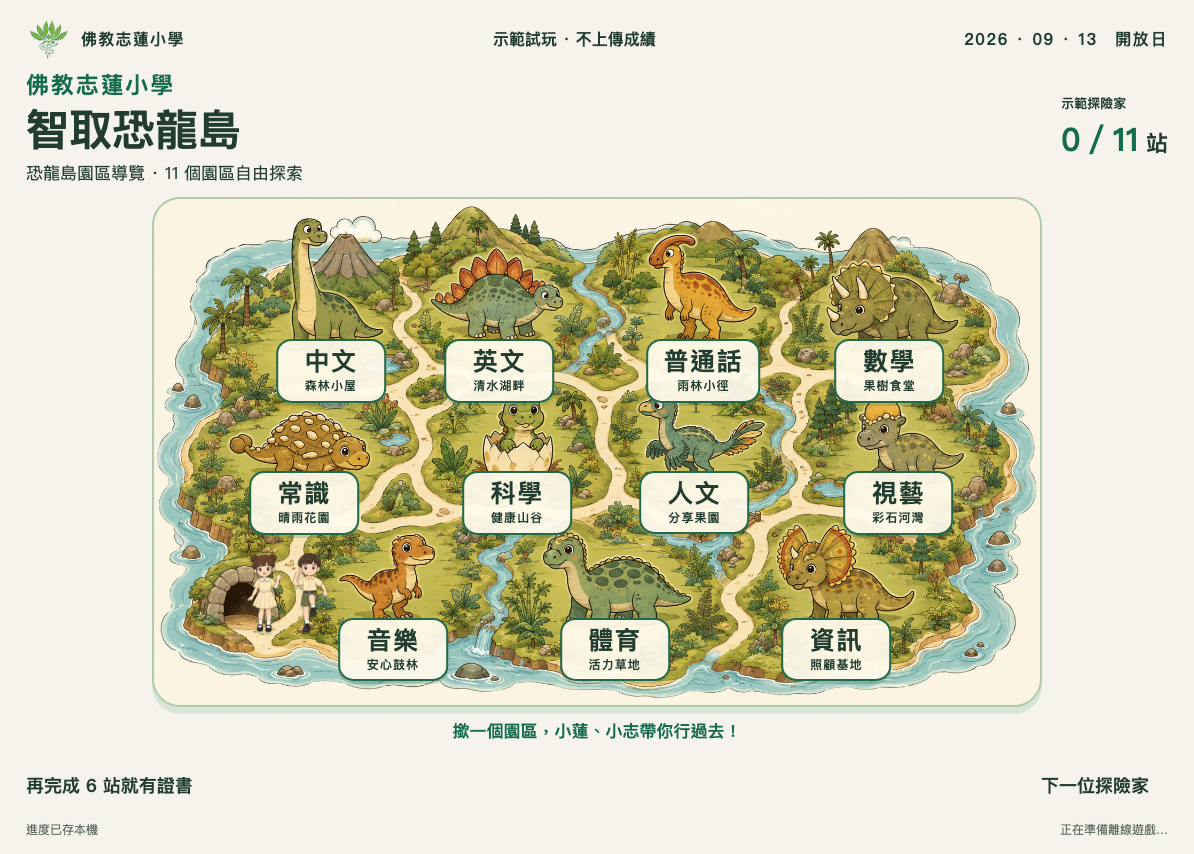
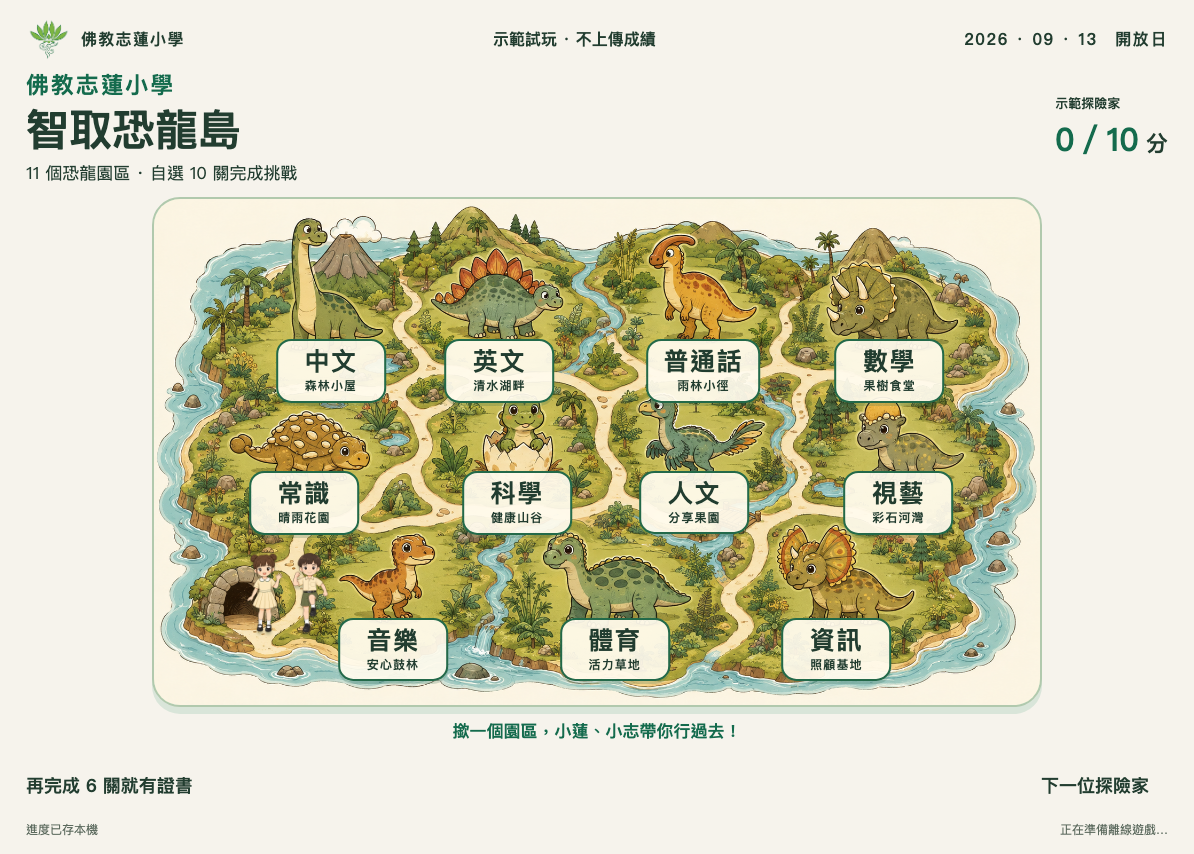
Change scoring to any ten of eleven zones

Changed region(s): [[0.8677, 0.0913, 0.9916, 0.1827], [0.0, 0.1827, 0.2479, 0.2131]]

diff --git a/hub/app.js b/hub/app.js
@@ -1,4 +1,4 @@
-import {SCHOOL,TITLE,DATE,ZONES,zoneById,validName,cleanName,nameLength,newPlayer,totals,snapshot,completeZone,ActiveClock} from '../shared/core.js';
+import {SCHOOL,TITLE,DATE,ZONES,SCORE_TARGET,zoneById,validName,cleanName,nameLength,newPlayer,totals,snapshot,completeZone,ActiveClock,formatTime} from '../shared/core.js';
 import {icon,escapeHTML} from '../shared/icons.js';
 import {read,write,remove,photoStore,DEMO} from '../shared/storage.js';
 import {CONFIG} from '../shared/config.js';
@@ -16,7 +16,7 @@ function synced(){if(!player)return;const snap=snapshot(player);queuePlayer(snap
 function networkLabel(){return !navigator.onLine?'暫時離線，進度存於本機':!networkSettings().appScriptUrl?'進度已存本機':Object.keys(read('outbox',{})).length?'進度已存本機，等待同步':'進度已同步';}
 const brand=()=>`<div class="brand">${CONFIG.schoolLogo?`<img src="${escapeHTML(CONFIG.schoolLogo)}" alt="校徽">`:''}${SCHOOL}</div>`;
 function shell(content){app.innerHTML=`<div class="shell"><header class="topbar">${brand()}${DEMO?'<strong>示範試玩 · 不上傳成績</strong>':''}<span class="date">2026 · 09 · 13　開放日</span></header>${content}<footer class="bottom-note"><span class="subtle" id="sync-state">${networkLabel()}</span><span class="subtle" id="offline-state">${read('offlineReady')?'遊戲已可離線使用':'正在準備離線遊戲…'}</span></footer></div>`;}
-function welcome(){shell(`<section class="welcome"><div class="welcome-copy"><p class="eyebrow">小小探險家 · 大大照顧心</p><h1>智取<br>恐龍島</h1><p class="question">點樣照顧恐龍島上嘅小恐龍，令佢哋安全、開心、學識生活？</p><form class="nickname"><label for="nickname">你叫咩暱稱？</label><div class="input-wrap"><input id="nickname" name="nickname" autocomplete="off" placeholder="例如：小晴" aria-describedby="name-help" required><span id="name-count" class="subtle">0／8</span></div><p class="subtle" id="name-help">最多八個字；暱稱會喺現場探險榜出現。</p><button class="primary" type="submit">出發去島上　→</button><p class="subtle">自由揀站 · 六站領證 · 十一站入榜</p></form></div><div class="welcome-art"><span class="art-label">一齊照顧小龍！</span><img class="character boy" src="img/chars/xiaozhi-welcome.png" alt="小志張手歡迎"><img class="character dino" src="img/chars/dino-baby.png" alt="綠色小龍"></div></section>`);
+function welcome(){shell(`<section class="welcome"><div class="welcome-copy"><p class="eyebrow">小小探險家 · 大大照顧心</p><h1>智取<br>恐龍島</h1><p class="question">點樣照顧恐龍島上嘅小恐龍，令佢哋安全、開心、學識生活？</p><form class="nickname"><label for="nickname">你叫咩暱稱？</label><div class="input-wrap"><input id="nickname" name="nickname" autocomplete="off" placeholder="例如：小晴" aria-describedby="name-help" required><span id="name-count" class="subtle">0／8</span></div><p class="subtle" id="name-help">最多八個字；暱稱會喺現場探險榜出現。</p><button class="primary" type="submit">出發去島上　→</button><p class="subtle">11 關任揀 10 關 · 每關 1 分 · 六分領證</p></form></div><div class="welcome-art"><span class="art-label">一齊照顧小龍！</span><img class="character boy" src="img/chars/xiaozhi-welcome.png" alt="小志張手歡迎"><img class="character dino" src="img/chars/dino-baby.png" alt="綠色小龍"></div></section>`);
  const input=document.querySelector('#nickname');input.addEventListener('input',()=>{let n=nameLength(cleanName(input.value));document.querySelector('#name-count').textContent=n+'／8';input.setCustomValidity(n>8?'暱稱最多八個字。':'');});document.querySelector('form').onsubmit=e=>{e.preventDefault();if(!validName(input.value)){notify('請輸入一至八個字嘅暱稱。');return;}player=newPlayer(input.value);persist();if(saveFailed)return;synced();location.hash='/map';};}
 const parkZones=[
  ['森林小屋',20,19,34],['清水湖畔',39,20,34],['雨林小徑',62,19,34],['果樹食堂',83,23,34],
@@ -24,8 +24,8 @@ const parkZones=[
  ['安心鼓林',27,76,89],['活力草地',52,78,89],['照顧基地',77,77,89]
 ];
 function map(){
- const t=totals(player);
- shell(`<div class="map-header"><div><p class="map-school">${SCHOOL}</p><h2>智取恐龍島</h2><p>恐龍島園區導覽 · 11 個園區自由探索</p></div><div class="progress-label"><span class="map-player">${escapeHTML(player.name)}</span><strong>${t.zonesCompleted}／11</strong> 站</div></div><div class="map-viewport" role="region" aria-label="恐龍島十一個園區地圖"><div class="map-island"><div class="park-guides" aria-label="小蓮同小志帶你遊恐龍島"><img class="character guide-girl" src="img/chars/xiaolian-welcome.png" alt="導遊小蓮"><img class="character guide-boy" src="img/chars/xiaozhi-step.png" alt="導遊小志"></div>${ZONES.map((z,i)=>{const s=player.zones[z.id],park=parkZones[i];return `<button class="stone ${s?.complete?'done':s?'active':''}" data-zone="${z.id}" ${s?.complete?'disabled':''} style="left:${park[1]}%;top:${park[2]}%;--label-top:${50+(park[3]-park[2])*4}%" aria-label="${z.name}，${park[0]}，${s?.complete?'已完成':s?'繼續照顧':'前往園區'}"><span class="park-label"><strong>${z.name}</strong><span>${park[0]}</span></span>${s?.complete?'<span class="park-status">✓ 已照顧</span>':s?'<span class="park-status">進行中</span>':''}</button>`;}).join('')}</div></div><p id="guide-status" class="guide-status" role="status">撳一個園區，小蓮、小志帶你行過去！</p><p class="map-scroll-hint">左右移動地圖，揀你想去嘅園區。</p><div class="bottom-note map-progress"><p class="progress-label">${t.zonesCompleted===11?'11 個園區都照顧好啦！你已完成全島探險。':t.certReady?'你已可領證書！完成全部 11 站就入探險榜。':`再完成 ${6-t.zonesCompleted} 站就有證書`}</p><div class="actions">${t.certReady?'<button class="primary" id="certificate">領證書</button>':''}<button class="quiet" id="next-player">下一位探險家</button></div></div>`);
+ const t=totals(player),finished=t.scoreReady;
+ shell(`<div class="map-header"><div><p class="map-school">${SCHOOL}</p><h2>智取恐龍島</h2><p>11 個恐龍園區 · 自選 10 關完成挑戰</p></div><div class="progress-label"><span class="map-player">${escapeHTML(player.name)}</span><strong>${t.zonesCompleted}／${SCORE_TARGET}</strong> 分</div></div><div class="map-viewport" role="region" aria-label="恐龍島十一個園區地圖"><div class="map-island"><div class="park-guides" aria-label="小蓮同小志帶你遊恐龍島"><img class="character guide-girl" src="img/chars/xiaolian-welcome.png" alt="導遊小蓮"><img class="character guide-boy" src="img/chars/xiaozhi-step.png" alt="導遊小志"></div>${ZONES.map((z,i)=>{const s=player.zones[z.id],park=parkZones[i],locked=finished&&!s?.complete;return `<button class="stone ${s?.complete?'done':locked?'locked':s?'active':''}" data-zone="${z.id}" ${s?.complete||locked?'disabled':''} style="left:${park[1]}%;top:${park[2]}%;--label-top:${50+(park[3]-park[2])*4}%" aria-label="${z.name}，${park[0]}，${s?.complete?'已完成':locked?'今次未選':s?'繼續照顧':'前往園區'}"><span class="park-label"><strong>${z.name}</strong><span>${park[0]}</span></span>${s?.complete?'<span class="park-status">✓ 1 分</span>':locked?'<span class="park-status">今次未選</span>':s?'<span class="park-status">進行中</span>':''}</button>`;}).join('')}</div></div><p id="guide-status" class="guide-status" role="status">${finished?'10 分滿分！你已完成今次探險。':'撳一個園區，小蓮、小志帶你行過去！'}</p><p class="map-scroll-hint">左右移動地圖，揀你想去嘅園區。</p><div class="bottom-note map-progress"><p class="progress-label">${finished?`10 分滿分！總有效時間 ${formatTime(t.totalMs)}，已登上探險榜。`:t.certReady?`你已可領證書！再完成 ${SCORE_TARGET-t.zonesCompleted} 關就滿分。`:`再完成 ${6-t.zonesCompleted} 關就有證書`}</p><div class="actions">${t.certReady?'<button class="primary" id="certificate">領證書</button>':''}<button class="quiet" id="next-player">下一位探險家</button></div></div>`);
  document.querySelector('.shell').classList.add('park-page');
  const guides=mountParkGuides(document.querySelector('.map-island'),player,i=>{persist();location.hash='/play/'+ZONES[i].id;});
  cleanup=()=>guides.cleanup();
@@ -33,7 +33,7 @@ function map(){
  document.querySelector('#certificate')?.addEventListener('click',()=>location.hash='/cert');
  document.querySelector('#next-player').onclick=nextPlayer;
 }
-function game(id){const z=zoneById(id);if(!z){location.hash='/map';return;}if(player.zones[id]?.complete){notify('呢一站已完成，請揀其他園區。');location.hash='/map';return;}player.zones[id]??={ms:0,complete:false,game:{}};const saved=player.zones[id];saved.game??={};persist();activeZone=id;if(!saved.complete&&!document.hidden)clock.resume();shell(`<div class="game-top"><button id="back-map">${icon('back')}返地圖</button><h2>${z.name}</h2><span class="pill">${totals(player).zonesCompleted}／11 站</span></div><p class="parent-line"><span>陪伴小貼士</span>${z.parent}</p><section class="game-panel" id="game"></section><div class="game-footer"><span class="care-tag">照顧小龍 · 安全、開心、學識生活</span><span class="subtle">${saved.complete?'再次探索，不會改變成績':'慢慢試，唔使急。'}</span></div>`);document.querySelector('#back-map').onclick=()=>location.hash='/map';const state=saved.complete?{}:saved.game;cleanup=mountGame(document.querySelector('#game'),z,state,persist,()=>{clock.pause();completeZone(player,id);persist();synced();cleanup();cleanup=()=>{};const n=document.querySelector('#game');n.innerHTML=`<div class="complete"><p class="eyebrow">照顧任務完成</p><h2>小龍${id==='art'?'安全返到屋企':id==='music'?'安心啦':'得到你嘅照顧啦'}！</h2><div class="stage">${z.companion?`<img class="character companion" src="img/chars/${z.id==='pe'?'xiaozhi-highfive':z.companion}.png" alt="陪伴同學">`:''}<img class="character companion is-happy" src="img/chars/${['english','mandarin'].includes(id)?'dino-baby-sleep':'dino-baby'}.png" alt="開心嘅小龍">${id==='math'?'<img class="landmark-greeting" src="img/chars/landmark-triceratops.png" alt="三角龍地標打招呼">':id==='science'?'<img class="landmark-greeting" src="img/chars/landmark-hatch.png" alt="誕生地標">':''}</div><p>${z.outcome}</p><button class="primary" id="return-map">返地圖，繼續探險</button></div>`;document.querySelector('#return-map').onclick=()=>location.hash='/map';});}
+function game(id){const z=zoneById(id),t=totals(player);if(!z){location.hash='/map';return;}if(player.zones[id]?.complete||t.scoreReady){notify(t.scoreReady?'你已經得到 10 分滿分！':'呢一站已完成，請揀其他園區。');location.hash='/map';return;}player.zones[id]??={ms:0,complete:false,game:{}};const saved=player.zones[id];saved.game??={};persist();activeZone=id;if(!saved.complete&&!document.hidden)clock.resume();shell(`<div class="game-top"><button id="back-map">${icon('back')}返地圖</button><h2>${z.name}</h2><span class="pill">${t.zonesCompleted}／${SCORE_TARGET} 分</span></div><p class="parent-line"><span>陪伴小貼士</span>${z.parent}</p><section class="game-panel" id="game"></section><div class="game-footer"><span class="care-tag">照顧小龍 · 安全、開心、學識生活</span><span class="subtle">慢慢試，唔使急。</span></div>`);document.querySelector('#back-map').onclick=()=>location.hash='/map';const state=saved.game;cleanup=mountGame(document.querySelector('#game'),z,state,persist,()=>{clock.pause();completeZone(player,id);persist();synced();cleanup();cleanup=()=>{};const n=document.querySelector('#game');n.innerHTML=`<div class="complete"><p class="eyebrow">照顧任務完成 · 得到 1 分</p><h2>小龍${id==='art'?'安全返到屋企':id==='music'?'安心啦':'得到你嘅照顧啦'}！</h2><div class="stage">${z.companion?`<img class="character companion" src="img/chars/${z.id==='pe'?'xiaozhi-highfive':z.companion}.png" alt="陪伴同學">`:''}<img class="character companion is-happy" src="img/chars/${['english','mandarin'].includes(id)?'dino-baby-sleep':'dino-baby'}.png" alt="開心嘅小龍">${id==='math'?'<img class="landmark-greeting" src="img/chars/landmark-triceratops.png" alt="三角龍地標打招呼">':id==='science'?'<img class="landmark-greeting" src="img/chars/landmark-hatch.png" alt="誕生地標">':''}</div><p>${z.outcome}</p><button class="primary" id="return-map">返地圖，查看分數</button></div>`;document.querySelector('#return-map').onclick=()=>location.hash='/map';});}
 async function nextPlayer(){if(cert?.busy()){notify('證書正在處理，請等完成再換人。');return;}const pending=read('photoPending')===player.id;let dialog=document.createElement('dialog');dialog.innerHTML=`<h2>交畀下一位探險家？</h2><p>${pending?'有相片證書未完成交收。確認換人會放棄本機待傳相片。':'請先確認已保存證書。換人後會清走本機畫面，榜上紀錄仍保留。'}</p><div class="actions"><button id="stay">繼續探索</button><button id="reset" class="primary">${pending?'放棄相片，確認換人':'確認換人'}</button></div>`;document.body.append(dialog);dialog.showModal();dialog.querySelector('#stay').onclick=()=>dialog.close();dialog.addEventListener('close',()=>dialog.remove());dialog.querySelector('#reset').onclick=async()=>{dialog.querySelector('#reset').disabled=true;try{await photoStore('delete',player.id);remove('photoPending');remove('lastCertificate');clock.pause();cleanup();cert?.cleanup();remove('player');player=null;dialog.close();if(location.hash)location.hash='';else render();}catch{notify('本機相片未能清理，請老師幫手，暫時唔換人。');}};}
 function render(){if(cert?.busy()){notify('證書正在處理，請留在證書頁。');history.replaceState(null,'','#/cert');return;}clock.pause();activeZone=null;cleanup();cleanup=()=>{};cert?.cleanup();cert=null;if(!player){if(location.hash)history.replaceState(null,'',location.pathname);welcome();return;}let route=location.hash.slice(1)||'/map';if(route==='/cert'){if(!totals(player).certReady){location.hash='/map';return;}shell(`<div class="game-top"><button id="back-map">${icon('back')}返地圖</button><h2>你嘅照顧證書</h2><button id="next-player" class="quiet">下一位探險家</button></div><section id="certificate"></section>`);document.querySelector('#back-map').onclick=()=>location.hash='/map';document.querySelector('#next-player').onclick=nextPlayer;cert=mountCertificate(document.querySelector('#certificate'),player,notify);}else if(route.startsWith('/play/'))game(route.split('/')[2]);else map();}
 window.addEventListener('hashchange',render);window.addEventListener('online',()=>{flushPlayers();updateNetwork();});window.addEventListener('offline',updateNetwork);window.addEventListener('syncstatus',e=>{let n=document.querySelector('#sync-state');if(n)n.textContent=e.detail;});function updateNetwork(){let n=document.querySelector('#sync-state');if(n)n.textContent=networkLabel();}

diff --git a/hub/certificate.js b/hub/certificate.js
@@ -5,10 +5,10 @@ import {icon,escapeHTML} from '../shared/icons.js';
 const image=src=>new Promise((resolve,reject)=>{let i=new Image();i.onload=()=>resolve(i);i.onerror=()=>reject(Error('證書圖片未能載入，請重試'));i.src=src;});
 function fit(ctx,img,x,y,w,h,cover=false){const s=cover?Math.max(w/img.width,h/img.height):Math.min(w/img.width,h/img.height);ctx.save();ctx.beginPath();ctx.rect(x,y,w,h);ctx.clip();ctx.drawImage(img,x+(w-img.width*s)/2,y+(h-img.height*s)/2,img.width*s,img.height*s);ctx.restore();}
 export async function makeCertificate(player,photo=null){const c=document.createElement('canvas');c.width=1600;c.height=2000;const ctx=c.getContext('2d');ctx.fillStyle='#f6f3ec';ctx.fillRect(0,0,1600,2000);ctx.strokeStyle='#b8923a';ctx.lineWidth=12;ctx.strokeRect(55,55,1490,1890);ctx.lineWidth=3;ctx.strokeRect(80,80,1440,1840);ctx.textAlign='center';ctx.fillStyle='#146b4d';const text=(s,y,size,weight=700)=>{ctx.fillStyle='#146b4d';ctx.font=`${weight} ${size}px "PingFang HK","Microsoft JhengHei",sans-serif`;ctx.fillText(s,800,y,1390);};text(SCHOOL,170,48);text(TITLE,290,100);text('恐龍島照顧任務證書',380,46);if(photo){let p=await image(photo);ctx.fillStyle='#e7eddc';ctx.fillRect(280,440,1040,820);fit(ctx,p,290,450,1020,800,true);}else{ctx.fillStyle='#e7eddc';ctx.beginPath();ctx.ellipse(800,820,510,340,0,0,Math.PI*2);ctx.fill();text('安全 · 開心 · 學識生活',720,52);text('多謝你用心照顧小龍',820,50);}
- const border=await image('img/ui/cert-frame.png');ctx.save();ctx.globalAlpha=.5;ctx.drawImage(border,30,30,1540,1940);ctx.restore();const [girl,boy,dino]=await Promise.all(['xiaolian-highfive','xiaozhi-highfive','dino-baby'].map(n=>image('img/chars/'+n+'.png')));fit(ctx,girl,365,940,470,500);ctx.save();ctx.translate(1600,0);ctx.scale(-1,1);fit(ctx,boy,365,940,470,500);ctx.restore();fit(ctx,dino,660,1200,280,240);text(player.name,1530,82);text('完成恐龍島照顧任務',1625,52);text(`${totals(player).zonesCompleted}／11 站`,1740,84);text(DATE,1850,40);return new Promise((resolve,reject)=>c.toBlob(b=>b?resolve(b):reject(Error('證書未能產生')),'image/jpeg',.88));}
+ const border=await image('img/ui/cert-frame.png');ctx.save();ctx.globalAlpha=.5;ctx.drawImage(border,30,30,1540,1940);ctx.restore();const [girl,boy,dino]=await Promise.all(['xiaolian-highfive','xiaozhi-highfive','dino-baby'].map(n=>image('img/chars/'+n+'.png')));fit(ctx,girl,365,940,470,500);ctx.save();ctx.translate(1600,0);ctx.scale(-1,1);fit(ctx,boy,365,940,470,500);ctx.restore();fit(ctx,dino,660,1200,280,240);text(player.name,1530,82);text('完成恐龍島照顧任務',1625,52);text(`${totals(player).zonesCompleted}／10 分`,1740,84);text(DATE,1850,40);return new Promise((resolve,reject)=>c.toBlob(b=>b?resolve(b):reject(Error('證書未能產生')),'image/jpeg',.88));}
 const dataURL=blob=>new Promise((resolve,reject)=>{let r=new FileReader();r.onload=()=>resolve(r.result);r.onerror=()=>reject(r.error);r.readAsDataURL(blob);});
 export function mountCertificate(root,player,notify){let live=true,stream=null,photo=null,blob=null,previewURL=null,previewVersion=0,busy=false,processing=false,uploading=false,pending=null,timers=[];
- root.innerHTML=`<div class="cert-layout"><div><img class="cert-preview" alt="個人照顧任務證書預覽"><p class="subtle" style="text-align:center;margin-top:10px">完成 ${totals(player).zonesCompleted}／11 站 · ${DATE}</p></div><div class="cert-controls"><h2>留低呢份開心</h2><p>普通證書可以直接儲存。想同小蓮、小志、小龍合照，請家長幫手拍一張。</p><div class="actions"><button class="primary" id="camera-start">${icon('camera','small-icon')} 拍照證書</button><button id="save-local" disabled>儲存普通證書</button></div><div class="notice">拍照由家長自選；確認後上傳合成證書，供持有下載連結者領取。相片唔上探險榜，連結有效 7 日。到期即停止下載，雲端圖片由排程清理。</div><div id="camera-area" class="hidden"><video class="camera-view" autoplay muted playsinline></video><p id="camera-count" role="status"></p><div class="actions"><button id="shutter" class="gold">準備好，影相</button><button id="camera-cancel">取消拍照</button></div></div><div id="photo-actions" class="hidden"><div class="actions"><button id="upload" class="primary">確認並產生下載碼</button><button id="retake">重拍</button><button id="discard">改用普通證書</button></div></div><p id="cert-status" role="status" aria-live="polite">正在製作證書…</p><div id="qr" class="hidden qr-wrap"></div></div></div>`;
+ root.innerHTML=`<div class="cert-layout"><div><img class="cert-preview" alt="個人照顧任務證書預覽"><p class="subtle" style="text-align:center;margin-top:10px">${totals(player).zonesCompleted}／10 分 · ${DATE}</p></div><div class="cert-controls"><h2>留低呢份開心</h2><p>普通證書可以直接儲存。想同小蓮、小志、小龍合照，請家長幫手拍一張。</p><div class="actions"><button class="primary" id="camera-start">${icon('camera','small-icon')} 拍照證書</button><button id="save-local" disabled>儲存普通證書</button></div><div class="notice">拍照由家長自選；確認後上傳合成證書，供持有下載連結者領取。相片唔上探險榜，連結有效 7 日。到期即停止下載，雲端圖片由排程清理。</div><div id="camera-area" class="hidden"><video class="camera-view" autoplay muted playsinline></video><p id="camera-count" role="status"></p><div class="actions"><button id="shutter" class="gold">準備好，影相</button><button id="camera-cancel">取消拍照</button></div></div><div id="photo-actions" class="hidden"><div class="actions"><button id="upload" class="primary">確認並產生下載碼</button><button id="retake">重拍</button><button id="discard">改用普通證書</button></div></div><p id="cert-status" role="status" aria-live="polite">正在製作證書…</p><div id="qr" class="hidden qr-wrap"></div></div></div>`;
  const $=s=>root.querySelector(s),status=s=>{if(live)$('#cert-status').textContent=s;};
  const stop=()=>{busy=false;stream?.getTracks().forEach(t=>t.stop());stream=null;timers.forEach(clearTimeout);timers=[];};
  async function preview(){const version=++previewVersion;try{let next=await makeCertificate(player,photo);if(!live||version!==previewVersion)return;blob=next;if(previewURL)URL.revokeObjectURL(previewURL);previewURL=URL.createObjectURL(blob);$('.cert-preview').src=previewURL;$('#save-local').disabled=false;$('#save-local').textContent=photo?'儲存相片證書':'儲存普通證書';status(photo?'先睇清楚相片，確認先上傳。':'證書準備好，可以儲存。');}catch(e){status(e.message);}}

diff --git a/board/board.js b/board/board.js
@@ -1,8 +1,8 @@
-import {bridge,networkSettings} from '../shared/network.js';import {read,write,DEMO} from '../shared/storage.js';import {ZONES,rank,formatTime,nameLength} from '../shared/core.js';import {icon,escapeHTML} from '../shared/icons.js';import {CONFIG} from '../shared/config.js';
+import {bridge,networkSettings} from '../shared/network.js';import {read,write,DEMO} from '../shared/storage.js';import {ZONES,SCORE_TARGET,rank,formatTime,nameLength} from '../shared/core.js';import {icon,escapeHTML} from '../shared/icons.js';import {CONFIG} from '../shared/config.js';
 let previous=null,busy=false,failures=0;const board=document.querySelector('#board'),status=document.querySelector('#board-status');
 function resize(){const scale=Math.min(innerWidth/1920,innerHeight/1080);board.style.transform=`scale(${scale})`;board.style.marginLeft=Math.max(0,(innerWidth-1920*scale)/2)+'px';board.style.marginTop=Math.max(0,(innerHeight-1080*scale)/2)+'px';}resize();window.addEventListener('resize',resize);
 if(CONFIG.schoolLogo){const img=new Image();img.src=CONFIG.schoolLogo;img.alt='校徽';document.querySelector('header').prepend(img);}
-function render(data){const list=(data.players||[]).filter(p=>p.zonesCompleted===11);document.querySelector('#others').textContent=`${data.exploring||0} 位探險中${data.others>0?` · 另有 ${data.others} 位已完成探險`:''}`;document.querySelector('#rows').innerHTML=list.length?list.map((p,i)=>{const old=previous?.get(p.id),flash=previous&&(!old||!old.certReady&&p.certReady);return `<div class="board-row ${flash?'flash':''}"><span class="rank">${i+1}</span><span class="player-name ${nameLength(p.name)>6?'long':''}">${escapeHTML(p.name)}</span><span class="station-dots" aria-label="已完成${p.zonesCompleted}站">${ZONES.map(z=>`<span class="station-dot ${p.zoneIds.includes(z.id)?'complete':''}" title="${z.name}"></span>`).join('')}</span><span class="station-count">${p.zonesCompleted}<small>／11</small></span><span class="player-time">${formatTime(p.totalMs)}</span><span class="cert-star">${p.certReady?icon('star'):''}</span></div>`;}).join(''):`<div class="board-empty"><img src="../hub/img/chars/dino-baby.png" alt="等待探險家嘅小龍"><h2>等小探險家完成 11 站…</h2><p>一齊照顧小龍，令佢安全、開心、學識生活。</p></div>`;previous=new Map(list.map(p=>[p.id,p]));}
-async function poll(){if(DEMO){renderDemo();return;}if(busy)return;const settings=networkSettings();if(!settings.appScriptUrl){let records=Object.values(read('localBoard',{})),all=rank(records.filter(p=>p.zonesCompleted===11));render({players:all.slice(0,10),others:Math.max(0,all.length-10),exploring:records.length-all.length});status.textContent='本機預覽 · 尚未連接全場探險榜';return;}if(!navigator.onLine){status.textContent='暫時離線，iPad 進度仍在本機';return;}busy=true;try{let data=await bridge.call('getBoard');render(data);write('boardCache',data);failures=0;status.textContent='最近更新 '+new Date(data.serverTime).toLocaleTimeString('zh-HK',{hour12:false,timeZone:'Asia/Hong_Kong'});}catch{failures++;status.textContent=navigator.onLine?'更新暫時未完成，保留上次紀錄':'暫時離線，iPad 進度仍在本機';}finally{busy=false;}}
-function renderDemo(){const names=['小晴','豆豆','樂樂','小蓮花','朗朗','晴天','小恐龍','彤彤','星星','安安','小樹','小葉'];const players=names.map((name,i)=>({id:'demo-'+i,name,zonesCompleted:11,zoneIds:ZONES.map(z=>z.id),totalMs:650000+i*37000,reachedAt:i,certReady:true}));render({players:players.slice(0,10),others:2,exploring:7});status.textContent='示範資料 · 非真實成績 · 全部 11 站完成先入榜';}
+function render(data){const list=(data.players||[]).filter(p=>p.zonesCompleted===SCORE_TARGET);document.querySelector('#others').textContent=`${data.exploring||0} 位探險中${data.others>0?` · 另有 ${data.others} 位取得滿分`:''}`;document.querySelector('#rows').innerHTML=list.length?list.map((p,i)=>{const flash=previous&&!previous.has(p.id);return `<div class="board-row ${flash?'flash':''}"><span class="rank">${i+1}</span><span class="player-name ${nameLength(p.name)>6?'long':''}">${escapeHTML(p.name)}</span><span class="station-dots" aria-label="11 關之中完成 ${p.zonesCompleted} 關">${ZONES.map(z=>`<span class="station-dot ${p.zoneIds.includes(z.id)?'complete':''}" title="${z.name}"></span>`).join('')}</span><span class="station-count">${p.zonesCompleted}<small>／${SCORE_TARGET}分</small></span><span class="player-time">${formatTime(p.totalMs)}</span><span class="cert-star">${icon('star')}</span></div>`;}).join(''):`<div class="board-empty"><img src="../hub/img/chars/dino-baby.png" alt="等待探險家嘅小龍"><h2>等小探險家取得 10 分…</h2><p>11 關任揀 10 關，每過一關得 1 分。</p></div>`;previous=new Map(list.map(p=>[p.id,p]));}
+async function poll(){if(DEMO){renderDemo();return;}if(busy)return;const settings=networkSettings();if(!settings.appScriptUrl){let records=Object.values(read('localBoard',{})),all=rank(records.filter(p=>p.zonesCompleted===SCORE_TARGET));render({players:all.slice(0,10),others:Math.max(0,all.length-10),exploring:records.length-all.length});status.textContent='本機預覽 · 尚未連接全場探險榜';return;}if(!navigator.onLine){status.textContent='暫時離線，iPad 進度仍在本機';return;}busy=true;try{let data=await bridge.call('getBoard');render(data);write('boardCache',data);failures=0;status.textContent='最近更新 '+new Date(data.serverTime).toLocaleTimeString('zh-HK',{hour12:false,timeZone:'Asia/Hong_Kong'});}catch{failures++;status.textContent=navigator.onLine?'更新暫時未完成，保留上次紀錄':'暫時離線，iPad 進度仍在本機';}finally{busy=false;}}
+function renderDemo(){const names=['小晴','豆豆','樂樂','小蓮花','朗朗','晴天','小恐龍','彤彤','星星','安安','小樹','小葉'];const players=names.map((name,i)=>({id:'demo-'+i,name,zonesCompleted:SCORE_TARGET,zoneIds:ZONES.slice(i%2,10+i%2).map(z=>z.id),totalMs:650000+i*37000,reachedAt:i,certReady:true}));render({players:players.slice(0,10),others:2,exploring:7});status.textContent='示範資料 · 非真實成績 · 10 分滿分按總有效時間排名';}
 let cached=DEMO?null:read('boardCache');if(cached)render(cached);else render({players:[],others:0});poll();setInterval(poll,CONFIG.boardPollMs);window.addEventListener('online',poll);window.addEventListener('offline',()=>status.textContent='暫時離線，iPad 進度仍在本機');window.addEventListener('storage',()=>{if(!networkSettings().appScriptUrl)poll();});

diff --git a/shared/core.js b/shared/core.js
@@ -1,4 +1,4 @@
-export const SCHOOL='佛教志蓮小學', TITLE='智取恐龍島', DATE='2026.09.13';
+export const SCHOOL='佛教志蓮小學', TITLE='智取恐龍島', DATE='2026.09.13', SCORE_TARGET=10, CERT_TARGET=6;
 export const ZONES=[
  ['chinese','中文','write','xiaolian-write','用正確筆順寫字，幫小龍起屋同搵水。','有山洞、有清水、有樹蔭，小龍住得更安全！'],
  ['english','英文','ear',null,'聽英文，用行動照顧小龍。','有水飲、食得飽，小龍安心休息！'],
@@ -18,9 +18,9 @@ export function cleanName(s){return String(s).normalize('NFC').trim().replace(/[
 export function validName(s){return !!cleanName(s)&&nameLength(cleanName(s))<=8;}
 export const uid=()=>crypto.randomUUID();
 export function newPlayer(name){if(!validName(name))throw Error('請輸入一至八個字嘅暱稱');return {id:uid(),name:cleanName(name),version:1,zones:{},createdAt:Date.now()};}
-export function totals(p){const ids=ZONES.map(z=>z.id).filter(id=>p?.zones[id]?.complete);return {zoneIds:ids,zonesCompleted:ids.length,totalMs:ids.reduce((s,id)=>s+Math.min(180000,Math.max(0,p.zones[id].ms||0)),0),certReady:ids.length>=6};}
-export function snapshot(p){return {id:p.id,name:p.name,version:p.version,zones:Object.fromEntries(Object.entries(p.zones).filter(([,v])=>v.complete).map(([id,v])=>[id,Math.min(180000,Math.round(v.ms||0))]))};}
-export function completeZone(p,id){if(!zoneById(id))throw Error('未知站點');if(p.zones[id]?.complete)return false;p.zones[id]={...p.zones[id],complete:true,ms:Math.min(180000,p.zones[id]?.ms||0)};p.version++;return true;}
+export function totals(p){const entries=Object.entries(p?.zones||{}).filter(([id,v])=>zoneById(id)&&v?.complete).slice(0,SCORE_TARGET),ids=entries.map(([id])=>id);return {zoneIds:ids,zonesCompleted:ids.length,totalMs:entries.reduce((s,[,v])=>s+Math.min(180000,Math.max(0,v.ms||0)),0),certReady:ids.length>=CERT_TARGET,scoreReady:ids.length===SCORE_TARGET};}
+export function snapshot(p){return {id:p.id,name:p.name,version:p.version,zones:Object.fromEntries(Object.entries(p.zones).filter(([id,v])=>zoneById(id)&&v.complete).slice(0,SCORE_TARGET).map(([id,v])=>[id,Math.min(180000,Math.round(v.ms||0))]))};}
+export function completeZone(p,id){if(!zoneById(id))throw Error('未知站點');if(p.zones[id]?.complete||totals(p).scoreReady)return false;p.zones[id]={...p.zones[id],complete:true,ms:Math.min(180000,p.zones[id]?.ms||0)};p.version++;return true;}
 export const formatTime=ms=>`${String(Math.floor(ms/60000)).padStart(2,'0')}:${String(Math.floor(ms/1000)%60).padStart(2,'0')}`;
 export function rank(players){return [...players].sort((a,b)=>b.zonesCompleted-a.zonesCompleted||a.totalMs-b.totalMs||a.reachedAt-b.reachedAt||a.id.localeCompare(b.id));}
 export class ActiveClock{constructor(onTick,now=()=>performance.now()){this.onTick=onTick;this.now=now;this.start=null;}resume(){if(this.start===null)this.start=this.now();}checkpoint(){if(this.start!==null){let t=this.now();this.onTick(Math.max(0,t-this.start));this.start=t;}}pause(){this.checkpoint();this.start=null;}}

diff --git a/sw.js b/sw.js
@@ -1,5 +1,5 @@
 // Generated precache manifest. Rebuild whenever local assets change.
-const CACHE='dino-island-1b948ec57f19';
+const CACHE='dino-island-bb57db339667';
 const BASE=new URL('./',self.location.href);
 const ASSETS=["board/board.css","board/board.js","board/img/board-skin.png","board/index.html","hub/app.js","hub/certificate.js","hub/games.js","hub/img/chars/dino-baby-eat.png","hub/img/chars/dino-baby-sleep.png","hub/img/chars/dino-baby.png","hub/img/chars/landmark-hatch.png","hub/img/chars/landmark-longneck.png","hub/img/chars/landmark-triceratops.png","hub/img/chars/xiaolian-clap.png","hub/img/chars/xiaolian-color.png","hub/img/chars/xiaolian-highfive.png","hub/img/chars/xiaolian-point.png","hub/img/chars/xiaolian-welcome.png","hub/img/chars/xiaolian-write.png","hub/img/chars/xiaozhi-highfive.png","hub/img/chars/xiaozhi-jump.png","hub/img/chars/xiaozhi-run.png","hub/img/chars/xiaozhi-sit.png","hub/img/chars/xiaozhi-step.png","hub/img/chars/xiaozhi-stretch.png","hub/img/chars/xiaozhi-tablet.png","hub/img/chars/xiaozhi-welcome.png","hub/img/map/island-path.png","hub/img/ui/cert-frame.png","hub/index.html","hub/park-guides.js","index.html","setup/index.html","shared/config.js","shared/core.js","shared/icons.js","shared/img/school-logo.png","shared/network.js","shared/qrcode.js","shared/storage.js","shared/style.css","hub/","board/","setup/"].map(p=>new URL(p,BASE).href);
 self.addEventListener('install',e=>e.waitUntil(caches.open(CACHE).then(c=>c.addAll(ASSETS))));

diff --git a/hub/index.html b/hub/index.html
@@ -1,1 +1,1 @@
-<!doctype html><html lang="zh-HK"><head><meta charset="utf-8"><meta name="viewport" content="width=device-width,initial-scale=1,viewport-fit=cover"><meta name="theme-color" content="#146b4d"><meta name="apple-mobile-web-app-capable" content="yes"><meta name="description" content="佛教志蓮小學開放日：完成十一科照顧任務，陪小龍安全、開心、學識生活。"><title>智取恐龍島｜佛教志蓮小學</title><link rel="stylesheet" href="../shared/style.css"></head><body><main id="app"></main><div id="toast" role="status" aria-live="polite"></div><script src="../shared/qrcode.js"></script><script type="module" src="app.js"></script></body></html>
+<!doctype html><html lang="zh-HK"><head><meta charset="utf-8"><meta name="viewport" content="width=device-width,initial-scale=1,viewport-fit=cover"><meta name="theme-color" content="#146b4d"><meta name="apple-mobile-web-app-capable" content="yes"><meta name="description" content="佛教志蓮小學開放日：十一科任選十科照顧小龍，每關一分，十分滿分。"><title>智取恐龍島｜佛教志蓮小學</title><link rel="stylesheet" href="../shared/style.css"></head><body><main id="app"></main><div id="toast" role="status" aria-live="polite"></div><script src="../shared/qrcode.js"></script><script type="module" src="app.js"></script></body></html>

diff --git a/shared/style.css b/shared/style.css
@@ -16,4 +16,6 @@
 @keyframes guide-step{from{transform:translateY(0) rotate(-5deg)}to{transform:translateY(-7px) rotate(5deg)}}
 .guide-status{text-align:center;font-size:17px;font-weight:700;color:var(--green);margin-top:10px;min-height:28px}
 .stone.travelling .park-label{background:#f4d884;box-shadow:0 0 0 5px #fff4bb}
+.stone.locked{opacity:.72}
+.stone.locked .park-label{background:#e4e2d8;border-color:#7b877c}
 .map-island[aria-busy="true"] .stone{cursor:wait}

diff --git a/docs/VALIDATION.md b/docs/VALIDATION.md
@@ -10,9 +10,9 @@
 
 ## 已通過的驗證及範圍
 
-1. Node 12 項測試：暱稱、計分、計時、筆順路徑及 Google 後台邏輯。Google 服務以 mock 模擬。
-2. Chromium 全流程：以實際按鈕、描字指標、逐粒餵食、塗色、鼓及倒數長按完成全部 11 站；六站門檻、完成站禁止重玩、假鏡頭拍照、換人清理及電話版面。零瀏覽器執行錯誤。
-3. Chromium 模擬離線：/school/ 子目錄、重開地圖、11 站及图片快取、離線完成資訊並保留待傳佇列、普通證書生成。證書測試另五站資格以測試資料預設；全站操作另由全流程測試驗證。
+1. Node 13 項測試：暱稱、10 分計分、計時、筆順路徑及 Google 後台邏輯。Google 服務以 mock 模擬。
+2. Chromium 全流程：以實際按鈕、描字指標、逐粒餵食、塗色及鼓完成任選 10 站；驗證每關 1 分、六分門檻、10 分滿分、第 11 關鎖定、完成站禁止重玩、假鏡頭拍照、換人清理及電話版面。零瀏覽器執行錯誤。體育倒數及長按曾在同一套遊戲流程驗證，規則本輪沒有修改。
+3. Chromium 模擬離線：/school/ 子目錄、重開地圖、11 站及圖片快取、離線完成資訊並保留待傳佇列、普通證書生成。證書測試另五站資格以測試資料預設；十關操作另由全流程測試驗證。
 4. 跨來源橋接 mock：模擬 Google 巢狀 iframe、驗證確認回應；舊請求回應不移除較新的待傳進度。
 5. 1920×1080 合成榜資料：Top 10、8 字暱稱、站點及剩餘人數。不是現場距離測試。
 
@@ -21,7 +21,7 @@
 ## 尚未完成，正式活動前必須處理
 
 - 學校 Google 帳戶部署、Apps Script 正式網址及裝置憑證；目前榜只做同一瀏覽器本機預覽，未接通跨 iPad 成績。
-- 正式 HTTPS / GitHub Pages 網址；未建立公開 repository 或假稱已上線。
+- 正式 HTTPS / GitHub Pages 網址；原始碼已有私人 GitHub repository，但尚未公開或啟用正式 Pages。
 - 真實 Google 上傳、家長免登入掃碼下載、七日期限及排程刪除實測。程式及 mock 有覆蓋，仍不能代替實際 Google/Safari 測試。
 - 10 部實體 iPad 同時成績及相片上傳；95% 10 秒內更新或出碼是待測目標，尚無實測數據。
 - iPad Safari 相機、拒絕權限、觸控與離線持久性；iPhone Safari / Android Chrome 儲存證書；電視 3–5 米閱讀。
@@ -33,7 +33,7 @@
 
 ## 最新規則修訂驗證
 
-使用者確認 11 格／11 科、6 站證書、全部 11 站才排名。新增後台未完成者不入榜測試、地圖完成按鈕鎖定及直接網址攔截測試。完整瀏覽器流程已重跑通過。兩個 demo 入口亦驗證：可直接見地圖並點入科目，榜有 10 行示範資料；獨立儲存且不寫入正式進度／榜。
+最新規則為 11 格／11 科任選 10 科、每關 1 分、6 分證書、10 分滿分後按總有效時間排名。新增後台 9 分不入榜、10 分入榜、前端滿分鎖定未選關卡及直接網址攔截測試。兩個 demo 入口亦驗證：可直接見地圖並點入科目，榜有 10 行示範資料；獨立儲存且不寫入正式進度／榜。
 
 ## 恐龍園區地圖修訂驗證
 

diff --git a/docs/DESIGN-CONCEPT.md b/docs/DESIGN-CONCEPT.md
@@ -17,7 +17,7 @@
 3. 小蓮、小志沿島上道路帶隊前往，抵達後開始 1–2 分鐘的小遊戲。
 4. 完成園區後鎖定該科，不重複計分；返回地圖繼續探索。
 5. 完成六個不同園區後可領普通或拍照證書，亦可繼續完成全島。
-6. 完成全部 11 個園區才進入即時探險榜，排名按有效完成時間排列。
+6. 11 個園區任選 10 個；每關 1 分，10 分滿分後進入即時探險榜，按這十關的總有效時間排列。第 11 個未選園區不需完成。
 
 ## 11 個園區
 
@@ -45,9 +45,9 @@
 
 ## 證書與探險榜
 
-六站是「已完成足夠照顧任務」的肯定，不是終點。證書採奶油底和金框，列出暱稱、完成站數、日期、學校和活動名稱；拍照版在 iPad 本機合成，家長確認後才上傳成品，不另外保存原相。網絡失敗時仍可領普通證書。
+六分是「已完成足夠照顧任務」的肯定，不是終點。證書採奶油底和金框，列出暱稱、分數、日期、學校和活動名稱；拍照版在 iPad 本機合成，家長確認後才上傳成品，不另外保存原相。網絡失敗時仍可領普通證書。
 
-大電視榜是禮堂中的共同進度畫面。只有完成 11 站的探險家進入排名；其餘參加者只顯示為「探險中」人數。榜頁使用大字、高對比和 11 粒站點，避免試算表感，也不展示相片或下載資料。
+大電視榜是禮堂中的共同進度畫面。只有取得 10 分滿分的探險家進入排名；其餘參加者只顯示為「探險中」人數。榜頁仍用 11 粒站點顯示每人選了哪十關，並以大字、高對比呈現分數與總有效時間，不展示相片或下載資料。
 
 ## 技術及私隱概念
 
@@ -63,8 +63,7 @@
 
 - 四至六歲小朋友不用閱讀長句，也能選區、完成任務和回到地圖。
 - 家長在每站後能清楚說出學習內容和照顧成果。
-- 六站證書、11 站排名、首次完成及有效時間規則一致可靠。
+- 六分證書、10 分排名、首次完成及十關有效時間規則一致可靠。
 - 十部 iPad 斷網仍可玩；恢復連線後不遺漏或重複同步。
 - 電視榜在三至五米外可讀，更新延遲和證書下載經正式 Google 與實機測試達標。
 - 所有角色、園區和公開素材保持同一套原創視覺世界。
-

diff --git a/docs/PARK-MAP.md b/docs/PARK-MAP.md
@@ -2,7 +2,7 @@
 
 使用者最新確認：地圖呈現 11 個園區，各有不同恐龍地標；彎路有分岔及環路，訪客自由選擇前往次序。地圖恐龍是園區地標，不取代各遊戲內唯一被照顧的小龍。
 
-保留 11 科、完成 6 站領證、11 站全部完成先入榜、完成科目鎖定。每個園區點擊範圍包括恐龍所在位置及下方科目標牌，地圖沒有方向鎖或必須跟隨的順序。
+保留 11 科供選擇；每關 1 分，任選 10 關即 10 分滿分並按十關總有效時間上榜，完成 6 分可領證。每個園區點擊範圍包括恐龍所在位置及下方科目標牌，地圖沒有方向鎖或必須跟隨的順序；取得滿分後，第 11 個未選園區會標示「今次未選」並鎖定。
 
 參考圖僅取園區布局及分岔路概念，沒有將動物頭像、字樣、圍欄或原構圖複製。地圖由內置 imagegen 從文字提示生成，原圖保存在工具輸出位置，使用檔案為 hub/img/map/island-path.png。介面文字及互動範圍由 HTML 疊加。
 

diff --git a/docs/OPERATIONS.md b/docs/OPERATIONS.md
@@ -32,4 +32,4 @@
 
 確認待傳紀錄已同步，關閉設備；檢查 Apps Script 觸發器是否正常。七日後核對到期圖片已清理。測試紀錄唔同真實紀錄混用；正式活動前在學校後台清空測試資料，並清除設備測試進度後重新預載。
 
-最新規則：完成 6 科可領證書，全部 11 科完成先入排名。已完成科目不可再玩；未完成者可自由揀其他踏石。示範請開 `/hub/?demo=1#/map` 或 `/board/?demo=1`，正式活動不要帶 demo 參數。
+最新規則：11 科任選 10 科，每過一關得 1 分；完成 6 分可領證書，10 分滿分並按十關總有效時間排名。已完成科目不可再玩；取得滿分後，第 11 個未選園區鎖定。示範請開 `/hub/?demo=1#/map` 或 `/board/?demo=1`，正式活動不要帶 demo 參數。

diff --git a/README.md b/README.md
@@ -34,4 +34,4 @@
 
 - `/hub/?demo=1#/map`：直接睇分岔彎路、11 個恐龍園區，可以點入試玩。示範進度獨立保存，不上傳。
 - `/board/?demo=1`：10 行合成名字及時間，清楚標示示範資料；不寫入正式排名。
-- 正式玩法：11 科，完成 6 站領證，完成全部 11 站先列入排名。已完成站於地圖及直接網址均鎖定。未完成者只計探險中人數。
+- 正式玩法：11 科任選 10 科；每過一關得 1 分，10 分滿分。完成 6 分可領證，取得 10 分後按十關總有效時間排名；第 11 個未選園區鎖定。未滿 10 分者只計探險中人數。
